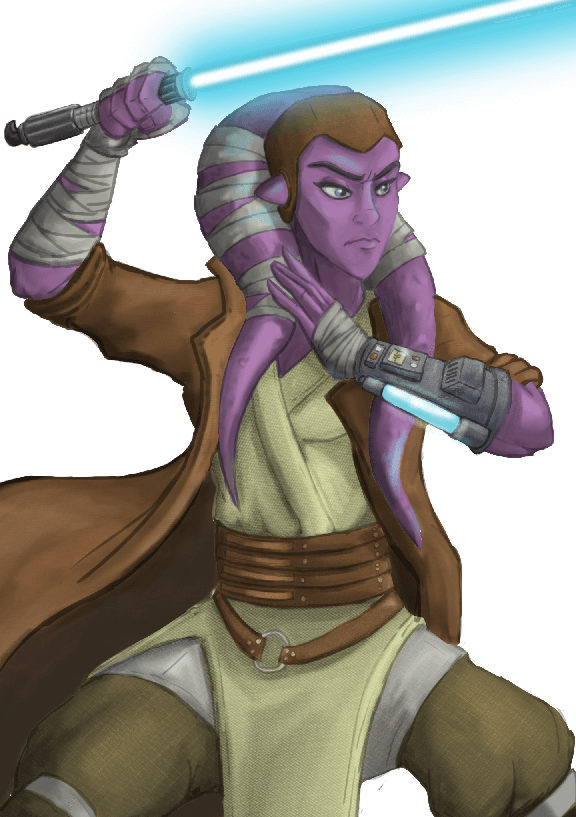
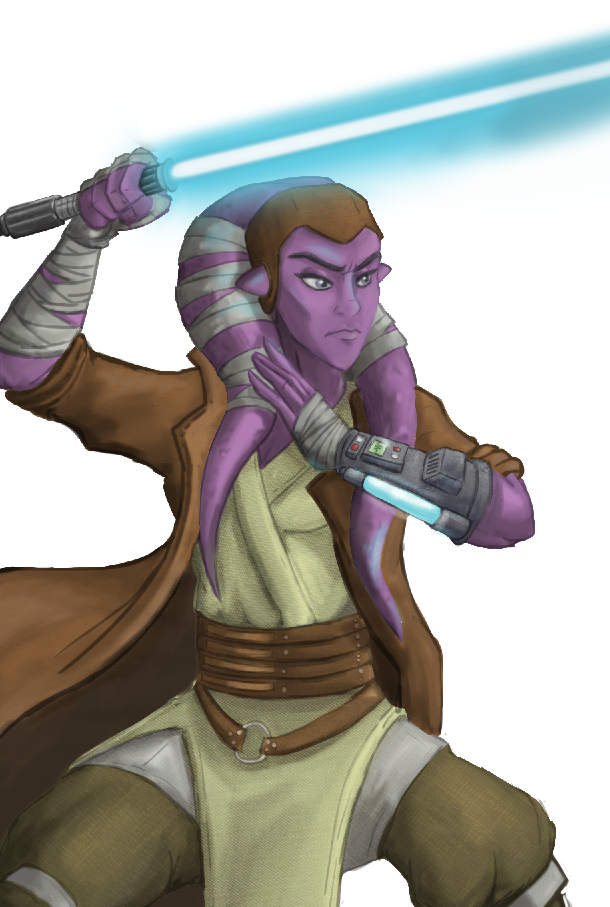
new assets

diff --git a/app/src/main/java/com/glasswellapps/sfs/CharacterScreen.kt b/app/src/main/java/com/glasswellapps/sfs/CharacterScreen.kt
@@ -143,8 +143,8 @@ class CharacterScreen : AppCompatActivity() {
 
             character_images.animate().alpha(1f)
             val animChar = ObjectAnimator.ofFloat(
-                character_images, "translationX", -character_images.width
-                    .toFloat(), -character_images.width.toFloat(), 0f
+                character_images, "translationY", character_images.height
+                    .toFloat(), character_images.height.toFloat(), 0f
             )
             animChar.interpolator = DecelerateInterpolator()
             animChar.duration = (800).toLong()
@@ -305,6 +305,7 @@ class CharacterScreen : AppCompatActivity() {
             companion_button.isClickable = false
         }
         background_image.setImageBitmap(character.getBackgroundImage(this))
+        camouflage.setImageBitmap(character.getCamoImage(this))
     }
 
     private fun setDiceColor(dice: ImageView, color: Char) {
@@ -1181,6 +1182,20 @@ class CharacterScreen : AppCompatActivity() {
         character.background = "desert"
         background_image.setImageBitmap(getBitmap(this, "backgrounds/background_desert.jpg"))
         camouflage.setImageBitmap(getBitmap(this, "backgrounds/camo_desert.png"))
+    }
+
+    fun onBackgroundBespin(view: View) {
+        Sounds.selectSound()
+        character.background = "bespin"
+        background_image.setImageBitmap(getBitmap(this, "backgrounds/background_bespin.jpg"))
+        camouflage.setImageBitmap(getBitmap(this, "backgrounds/camo_bespin.png"))
+    }
+
+    fun onBackgroundCity(view: View) {
+        Sounds.selectSound()
+        character.background = "city"
+        background_image.setImageBitmap(getBitmap(this, "backgrounds/background_city.jpg"))
+        camouflage.setImageBitmap(getBitmap(this, "backgrounds/camo_city.png"))
     }
 
     fun onBackgroundInterior(view: View) {
@@ -2219,6 +2234,14 @@ class CharacterScreen : AppCompatActivity() {
         }
         backgroundDialog!!.interior_background.setOnClickListener {
             onBackgroundInterior(backgroundDialog!!.interior_background)
+            //  quickSave()
+        }
+        backgroundDialog!!.city_background.setOnClickListener {
+            onBackgroundCity(backgroundDialog!!.city_background)
+            //  quickSave()
+        }
+        backgroundDialog!!.bespin_background.setOnClickListener {
+            onBackgroundBespin(backgroundDialog!!.bespin_background)
             //  quickSave()
         }
     }

diff --git a/app/src/main/java/com/glasswellapps/sfs/characters/Character_diala.kt b/app/src/main/java/com/glasswellapps/sfs/characters/Character_diala.kt
@@ -82,7 +82,13 @@ class Character_diala : Character {
         }
         if(tier == 3) {
             if (ancientLightSaber) {
-                currentImage = getBitmap(context,"characters/diala/images/tier3image_ancient_light_saber.png")
+                if(xpCardsEquipped[8]){
+                    currentImage = getBitmap(context,
+                        "characters/diala/images/tier3image_ancient_light_saber_card9.png");
+                }
+                else{
+                    currentImage = getBitmap(context,"characters/diala/images/tier3image_ancient_light_saber.png");
+                }
             }
         }
         println(""+ancientLightSaber + " " + tier)

diff --git a/app/src/main/java/com/glasswellapps/sfs/characters/Character.kt b/app/src/main/java/com/glasswellapps/sfs/characters/Character.kt
@@ -179,6 +179,10 @@ open class Character {
         val image = getBitmap(context, "backgrounds/background_"+ background + ".jpg")
         return image;
     }
+    open fun getCamoImage(context: Context): Bitmap? {
+        val image = getBitmap(context, "backgrounds/camo_"+ background + ".png")
+        return image;
+    }
 
     open fun loadPortraitImage(context:Context){
         portraitImage = context.resources.getDrawable(R.drawable.portrait_fenn)

diff --git a/app/src/main/java/com/glasswellapps/sfs/CharacterImageView.java b/app/src/main/java/com/glasswellapps/sfs/CharacterImageView.java
@@ -94,7 +94,7 @@ public class CharacterImageView extends View implements Runnable{
                 if (image != null) {
                     imageHeight =(int)((float)image.getHeight()/image.getWidth()*getWidth());
                     image = Bitmap.createScaledBitmap(image, getWidth(), imageHeight, true);
-                    offsetY = Math.max(getHeight()-imageHeight,0);
+                    offsetY = Math.max((getHeight()-imageHeight)/2,0);
                 }
                 imageScaled = true;
             }
